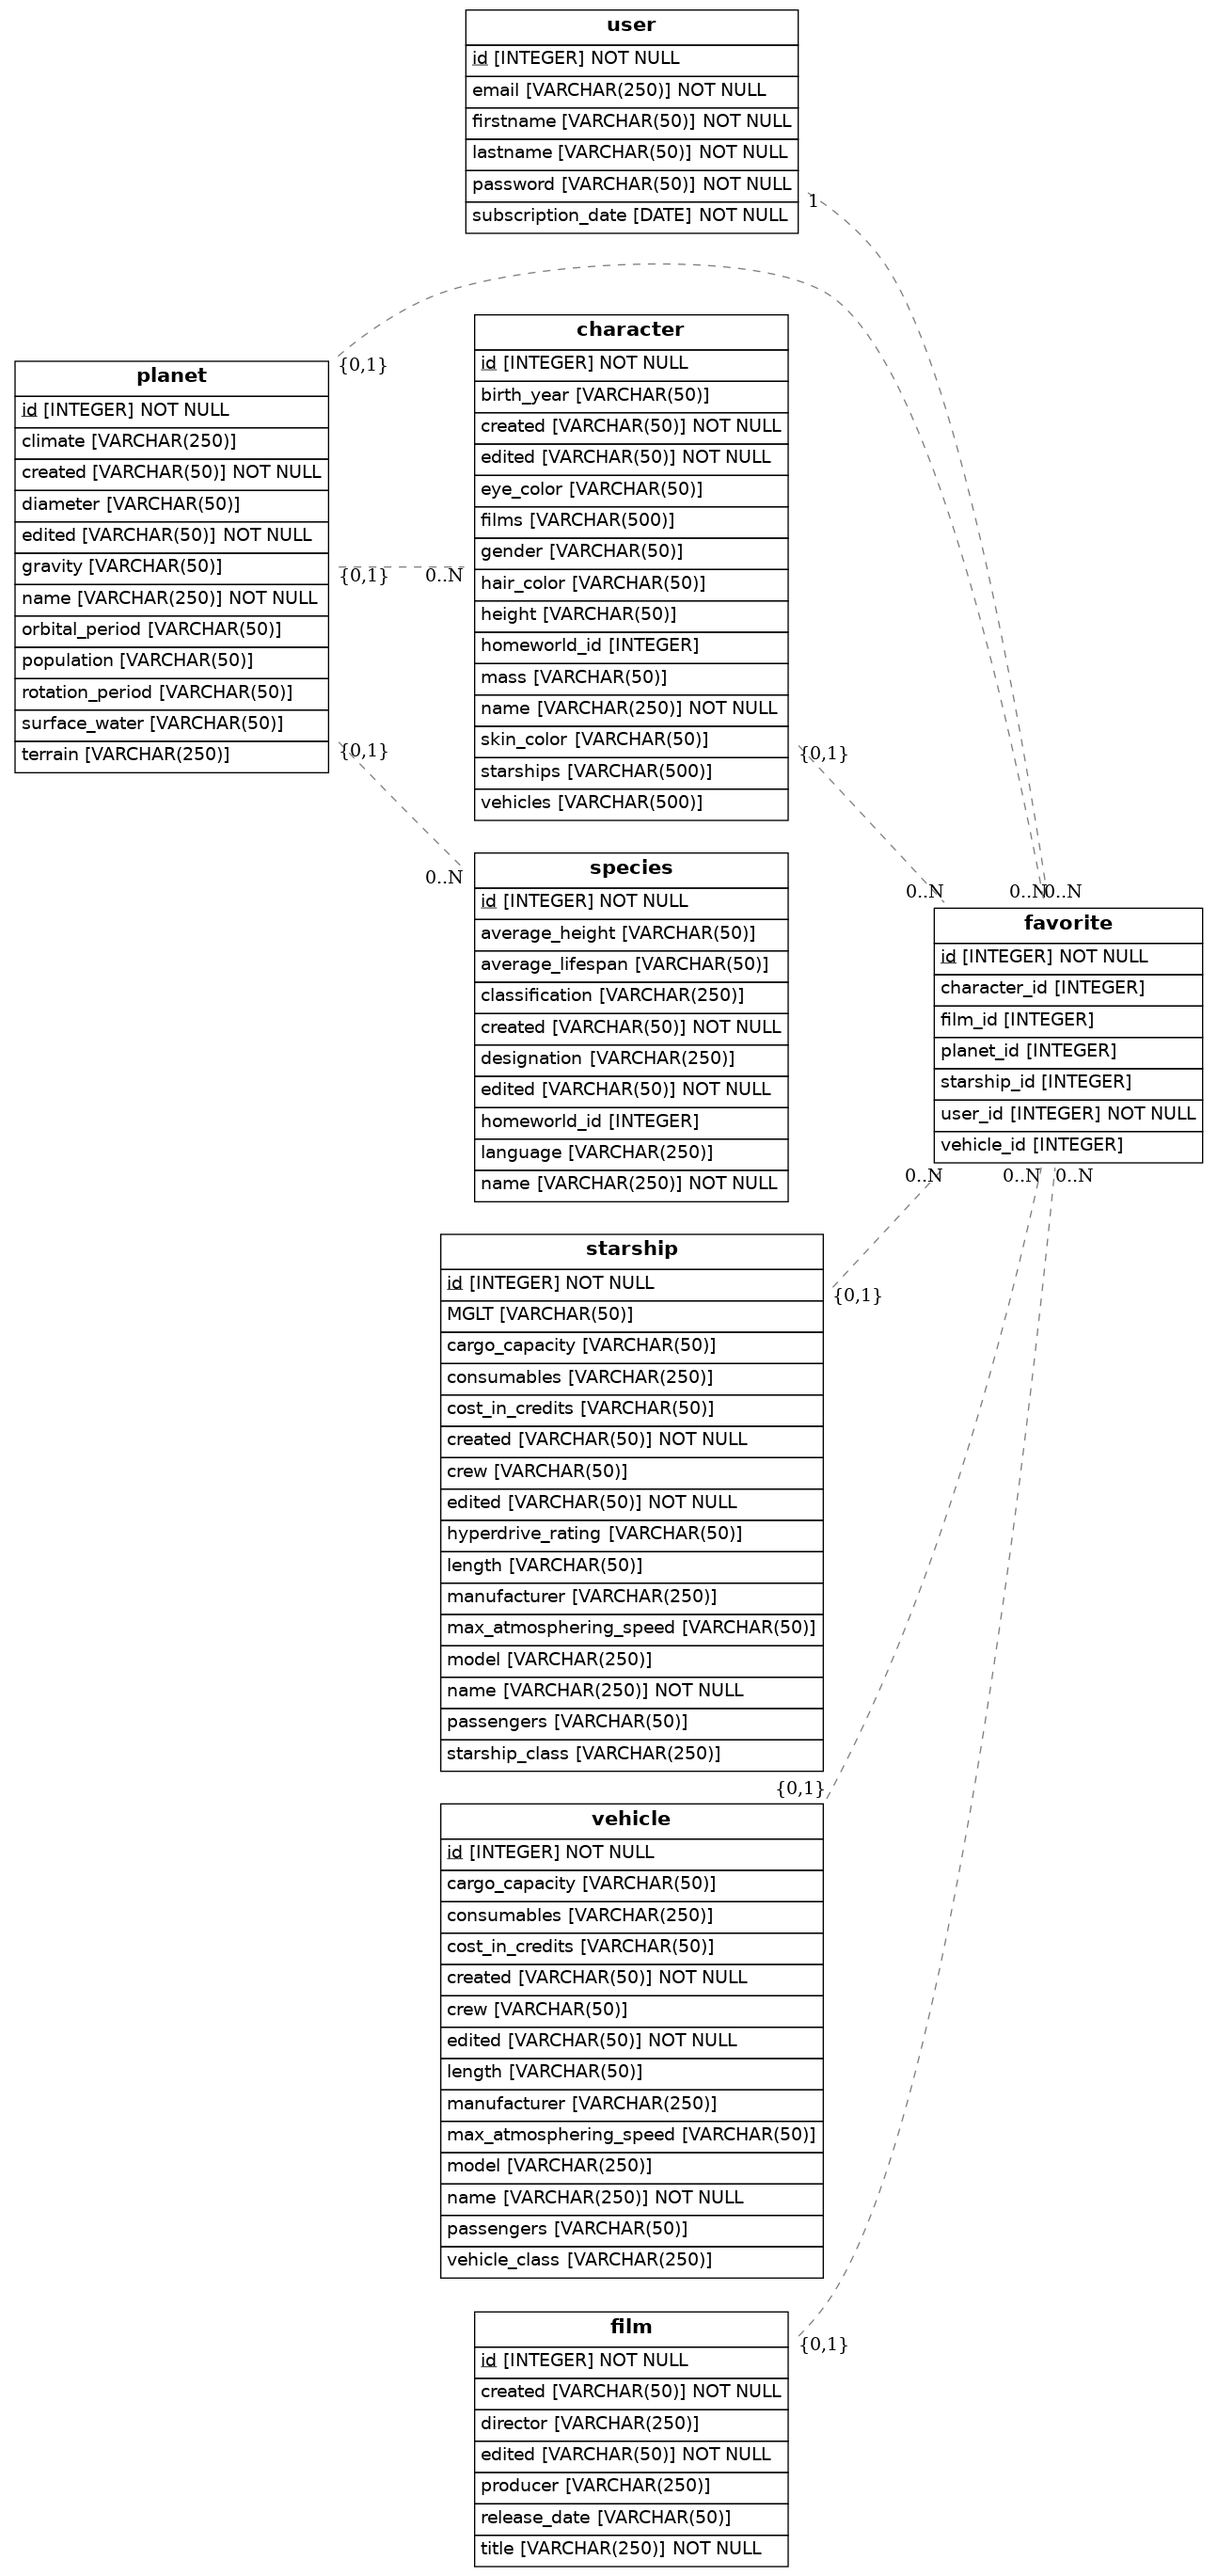
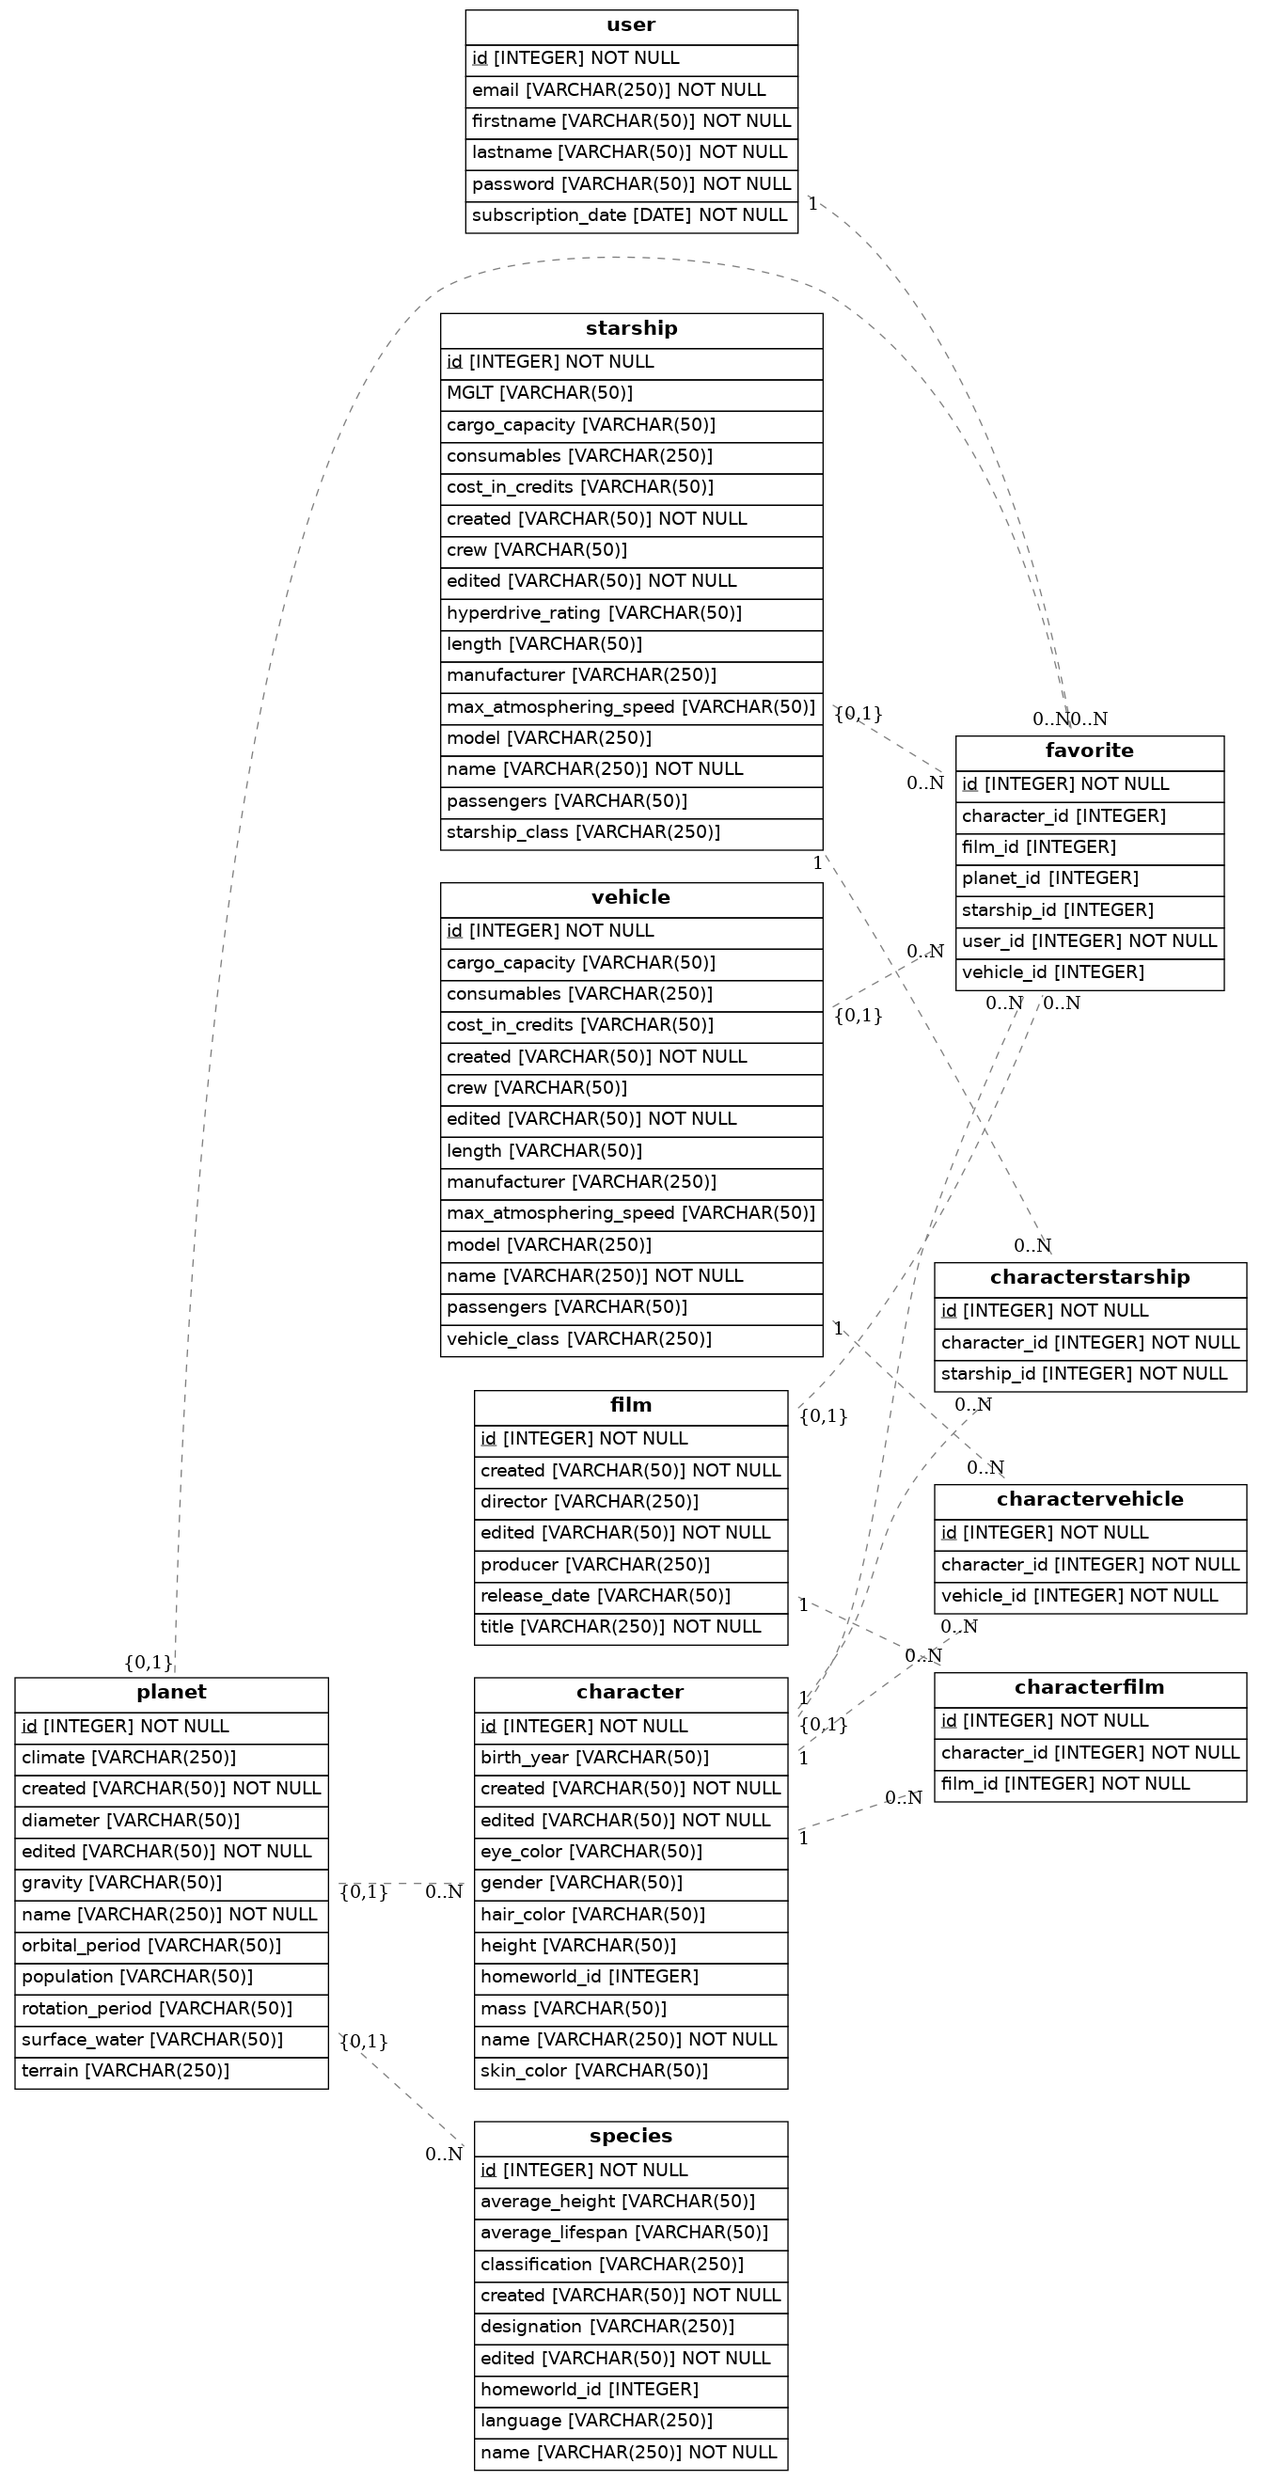
[Modificaciones al proyecto para la clase Caracter] models.py: Se han añadido las tablas CharacterFilm, CharacterStarship y CharacterVehicle para las relaciones a muchos. diagram.png: Se ha generado otra vez el diagrama con estos cambios.

diff --git a/src/models.py b/src/models.py
@@ -40,9 +40,9 @@ class Character(Base):
     created = Column(String(50), nullable=False)
     edited = Column(String(50), nullable=False)
     homeworld_id = Column(Integer, ForeignKey('planet.id'), nullable=True)
-    films = Column(String(500), nullable=True)
-    starships = Column(String(500), nullable=True)
-    vehicles = Column(String(500), nullable=True)
+    films = relationship("CharacterFilm", back_populates="character")
+    vehicles = relationship("CharacterVehicle", back_populates="character")
+    starships = relationship("CharacterStarship", back_populates="character")
     homeworld = relationship("Planet")
 
     def to_dict(self):
@@ -141,6 +141,7 @@ class Starship(Base):
     starship_class = Column(String(250), nullable=True)
     created = Column(String(50), nullable=False)
     edited = Column(String(50), nullable=False)
+    characters = relationship("CharacterStarship", back_populates="starship")
 
     def to_dict(self):
         return {
@@ -178,6 +179,7 @@ class Vehicle(Base):
     vehicle_class = Column(String(250), nullable=True)
     created = Column(String(50), nullable=False)
     edited = Column(String(50), nullable=False)
+    characters = relationship("CharacterVehicle", back_populates="vehicle")
 
     def to_dict(self):
         return {
@@ -206,6 +208,7 @@ class Film(Base):
     release_date = Column(String(50), nullable=True)
     created = Column(String(50), nullable=False)
     edited = Column(String(50), nullable=False)
+    characters = relationship("CharacterFilm", back_populates="film")
 
     def to_dict(self):
         return {
@@ -244,6 +247,30 @@ class Favorite(Base):
             "vehicle_id": self.vehicle_id,
             "film_id": self.film_id
         }
+
+class CharacterFilm(Base):
+    __tablename__ = 'characterfilm'
+    id = Column(Integer, primary_key=True)
+    character_id = Column(Integer, ForeignKey('character.id'), nullable=False)
+    film_id = Column(Integer, ForeignKey('film.id'), nullable=False)
+    character = relationship("Character", back_populates="films")
+    film = relationship("Film", back_populates="characters")
+
+class CharacterVehicle(Base):
+    __tablename__ = 'charactervehicle'
+    id = Column(Integer, primary_key=True)
+    character_id = Column(Integer, ForeignKey('character.id'), nullable=False)
+    vehicle_id = Column(Integer, ForeignKey('vehicle.id'), nullable=False)
+    character = relationship("Character", back_populates="vehicles")
+    vehicle = relationship("Vehicle", back_populates="characters")
+
+class CharacterStarship(Base):
+    __tablename__ = 'characterstarship'
+    id = Column(Integer, primary_key=True)
+    character_id = Column(Integer, ForeignKey('character.id'), nullable=False)
+    starship_id = Column(Integer, ForeignKey('starship.id'), nullable=False)
+    character = relationship("Character", back_populates="starships")
+    starship = relationship("Starship", back_populates="characters")
 
 ## Draw from SQLAlchemy base
 render_er(Base, 'diagram.png')
